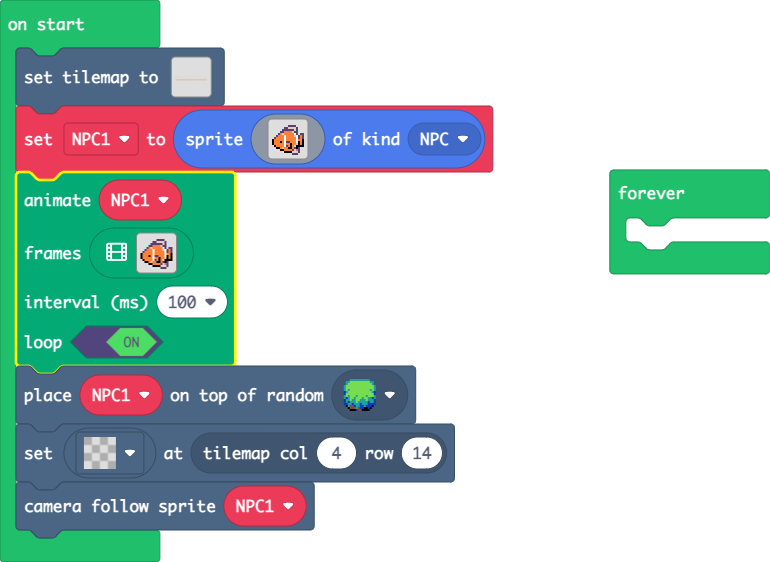
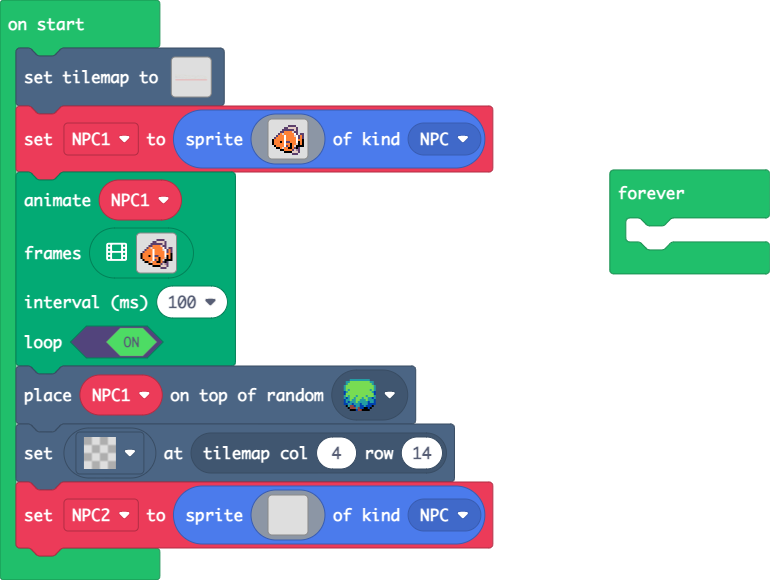
Update main.blocks, main.ts, images.g.jres, images.g.ts

diff --git a/main.ts b/main.ts
@@ -11,7 +11,24 @@ true
 )
 tiles.placeOnRandomTile(NPC1, sprites.builtin.forestTiles0)
 tiles.setTileAt(tiles.getTileLocation(4, 14), assets.tile`transparency16`)
-scene.cameraFollowSprite(NPC1)
+let NPC2 = sprites.create(img`
+    . . . . . . . . . . . . . . . . 
+    . . . . . . . . . . . . . . . . 
+    . . . . . . . . . . . . . . . . 
+    . . . . . . . . . . . . . . . . 
+    . . . . . . . . . . . . . . . . 
+    . . . . . . . . . . . . . . . . 
+    . . . . . . . . . . . . . . . . 
+    . . . . . . . . . . . . . . . . 
+    . . . . . . . . . . . . . . . . 
+    . . . . . . . . . . . . . . . . 
+    . . . . . . . . . . . . . . . . 
+    . . . . . . . . . . . . . . . . 
+    . . . . . . . . . . . . . . . . 
+    . . . . . . . . . . . . . . . . 
+    . . . . . . . . . . . . . . . . 
+    . . . . . . . . . . . . . . . . 
+    `, SpriteKind.NPC)
 forever(function () {
 	
 })

diff --git a/images.g.ts b/images.g.ts
@@ -144,6 +144,24 @@ f 4 4 4 4 4 1 4 4 f 4 4 d f 4 f
 . . . . . . f f f f d d d c . . 
 . . . . . . . . . . c c c . . . 
 `;
+            case "image8":return img`
+. . . . . . . . . . . . . . . . 
+. . . . . . . . . . . . . . . . 
+. . . . . . . . . . . . . . . . 
+. . . . . . . . . . . . . . . . 
+. . . . . . . . . . . . . . . . 
+. . . . . . . . . . . . . . . . 
+. . . . . . . . . . . . . . . . 
+. . . . . . . . . . . . . . . . 
+. . . . . . . . . . . . . . . . 
+. . . . . . . . . . . . . . . . 
+. . . . . . . . . . . . . . . . 
+. . . . . . . . . . . . . . . . 
+. . . . . . . . . . . . . . . . 
+. . . . . . . . . . . . . . . . 
+. . . . . . . . . . . . . . . . 
+. . . . . . . . . . . . . . . . 
+`;
         }
         return null;
     })
